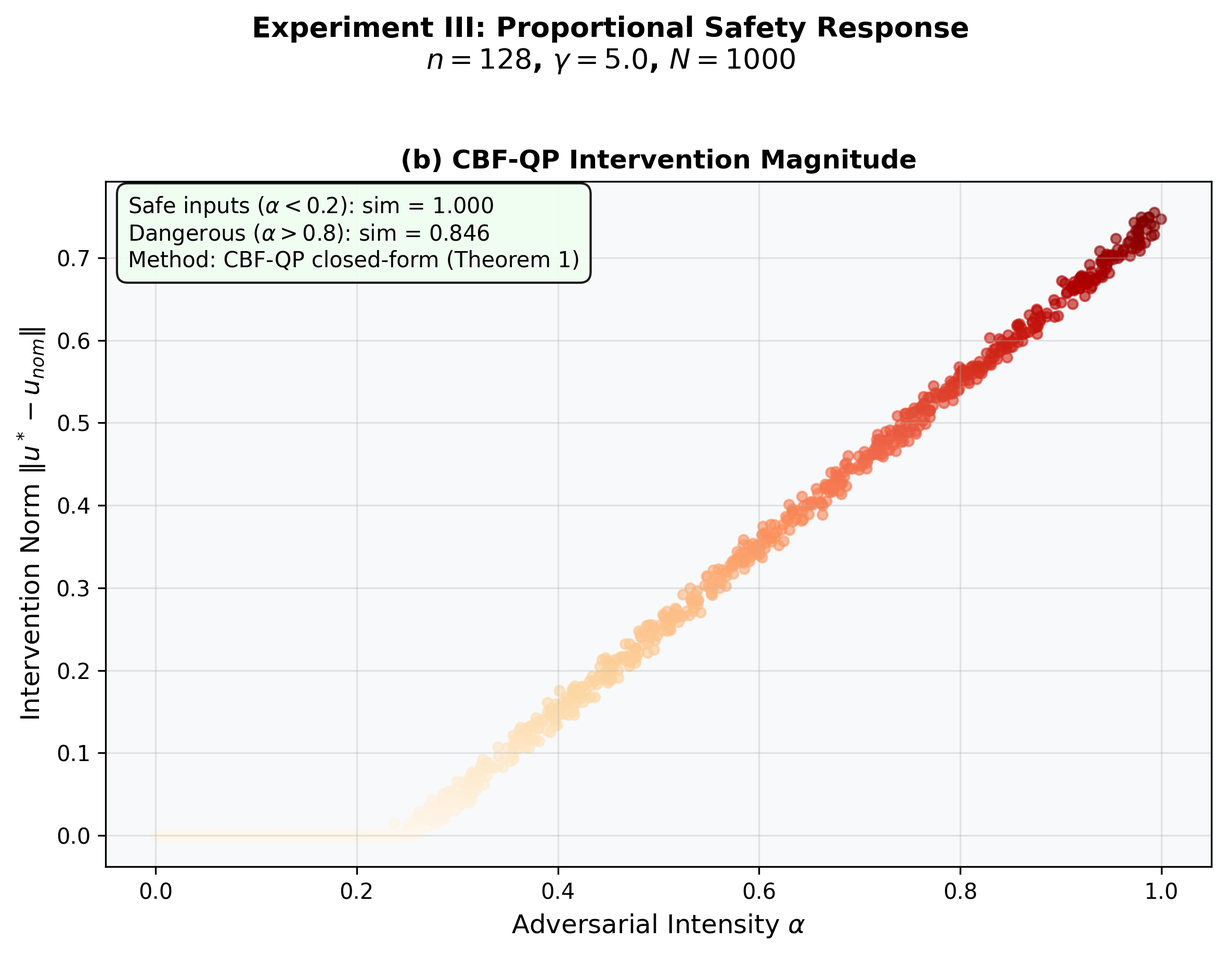
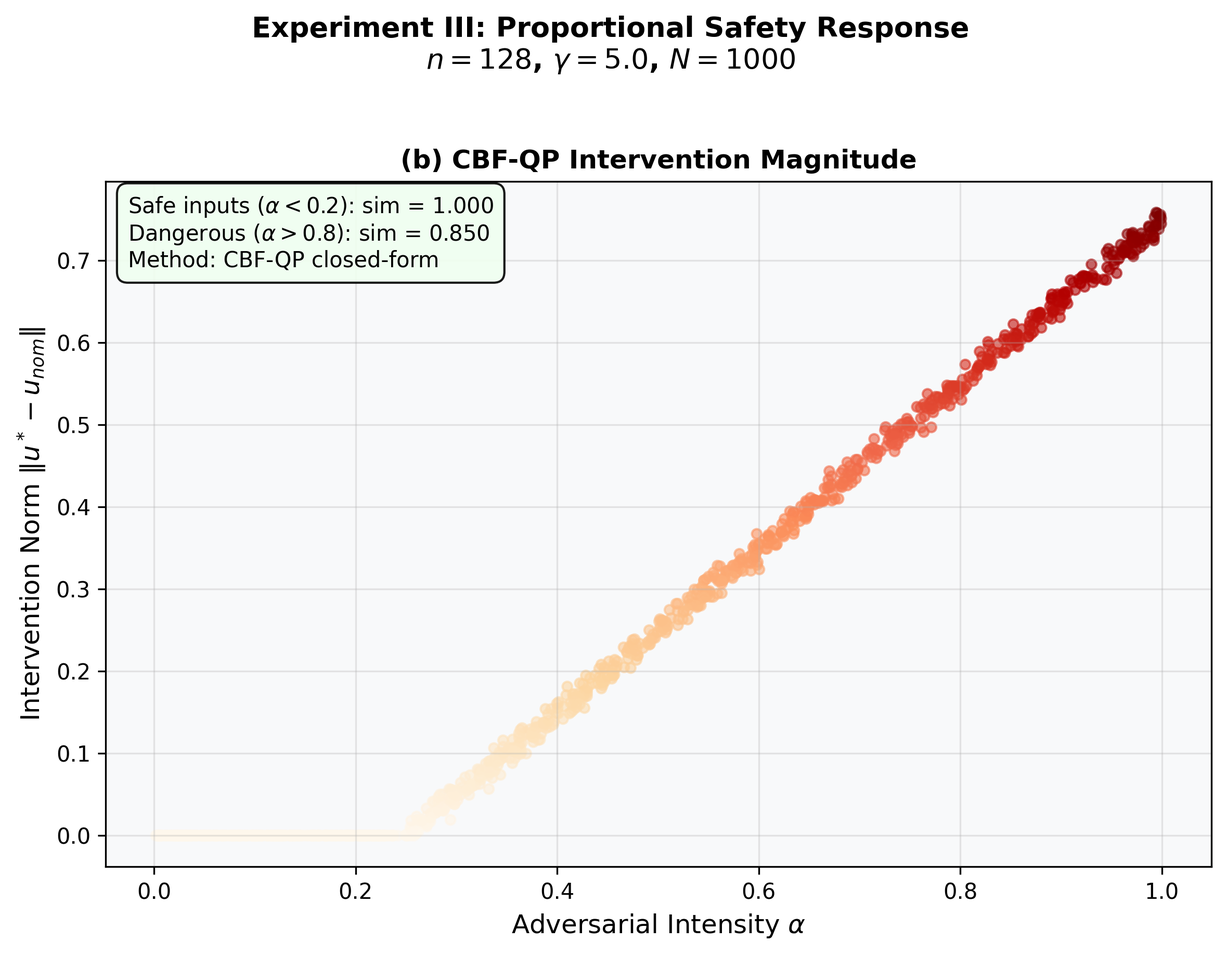
okay paper A DONE (almost)

diff --git a/core_safety/prove_utility_Figure_3.py b/core_safety/prove_utility_Figure_3.py
@@ -162,7 +162,7 @@ def _plot_b(ax):
     ax.set_facecolor(BG)
     textstr = (f'Safe inputs ($\\alpha < 0.2$): sim = {mean_sim_safe:.3f}\n'
                f'Dangerous ($\\alpha > 0.8$): sim = {mean_sim_danger:.3f}\n'
-               f'Method: CBF-QP closed-form (Eq. 3)')
+               f'Method: CBF-QP closed-form')
     ax.text(0.02, 0.98, textstr, transform=ax.transAxes, fontsize=10,
             verticalalignment='top',
             bbox=dict(boxstyle='round,pad=0.5', facecolor='honeydew', alpha=0.9))

diff --git a/core_safety/original_paper_A.md b/core_safety/original_paper_A.md
@@ -200,7 +200,7 @@ For clarity, we collect the assumptions underlying the CHDBO framework:
 We now present the Monte Carlo Barrier Certificate (MCBC), which replaces deterministic enumeration with probabilistic certification.
 
 \subsection{The Scaling Bottleneck}
-The computational cost of exact verification scales as $O((1/\eta)^n)$: a 3-link arm ($n{=}6$) requires $10^{12}$ evaluations; a semantic embedding space ($n \geq 128$) requires $10^{200}$. Two classical results motivate random sampling: the Concentration of Measure phenomenon \cite{vershynin2018} (barrier statistics from random boundary samples are representative of global behavior) and the Johnson-Lindenstrauss lemma \cite{johnson1984} (pairwise distances are preserved under random projections). Neither directly guarantees barrier-value preservation, but together they support---and our experiments validate---that sparse boundary sampling captures the essential safety geometry.
+The computational cost of exact verification scales as $O((1/\eta)^n)$: a 3-link arm ($n{=}6$) requires $10^{12}$ evaluations; a semantic embedding space ($n \geq 128$) requires $10^{200}$. Two classical results motivate random sampling: the Concentration of Measure phenomenon \cite{vershynin2018} (barrier statistics from random boundary samples are representative of global behavior) and the Johnson-Lindenstrauss lemma \cite{johnson1984, dasgupta2003} (pairwise distances are preserved under random projections). Neither directly guarantees barrier-value preservation, but together they support---and our experiments validate---that sparse boundary sampling captures the essential safety geometry.
 
 We shift from Worst-Case to PAC-Style Invariance \cite{valiant1984}: bounding the probability of encountering a failure state by $\epsilon$ via the Chernoff--Hoeffding bound \cite{hoeffding1963}, aligning with conformal prediction \cite{angelopoulos2021, lindemann2023} and randomized control frameworks \cite{tempo2012, calafiore2006}.
 
@@ -278,9 +278,9 @@ For $h(x) = \phi(\|x\|)$, we have $\nabla h(x) = \phi'(\|x\|) \cdot x/\|x\|$ for
 
 \begin{proposition}[Average-Case Trajectory Safety from Boundary Certification]
 \label{prop:trajectory_bridge}
-Let $h: \mathbb{R}^n \to \mathbb{R}$ be $L_h$-Lipschitz, and suppose the MCBC certificate guarantees $\hat{P}_{\emph{fail}} < \epsilon$ on $\partial\mathcal{S}$ under a uniform boundary measure $\mu$. Let $x(t)$ be a trajectory of the closed-loop system with CBF-QP control, evolving for $T$ discrete steps of size $\Delta t$.
+Let $h: \mathbb{R}^n \to \mathbb{R}$ be $L_h$-Lipschitz, and suppose the MCBC certificate guarantees $\hat{P}_{\text{fail}} < \epsilon$ on $\partial\mathcal{S}$ under a uniform boundary measure $\mu$. Let $x(t)$ be a trajectory of the closed-loop system with CBF-QP control, evolving for $T$ discrete steps of size $\Delta t$.
 
-\textbf{Distributional assumption.} Assume the initial condition $x(0)$ is drawn from a distribution $\mu_0$ such that, at each step where the trajectory reaches the boundary, the boundary projection $\emph{Proj}_{\partial\mathcal{S}}(x(t))$ is distributed according to $\mu$ (or absolutely continuous with respect to $\mu$). Under this assumption, the per-step probability of encountering an infeasible boundary point is at most $\epsilon$, and by a union bound:
+\textbf{Distributional assumption.} Assume the initial condition $x(0)$ is drawn from a distribution $\mu_0$ such that, at each step where the trajectory reaches the boundary, the boundary projection $\text{Proj}_{\partial\mathcal{S}}(x(t))$ is distributed according to $\mu$ (or absolutely continuous with respect to $\mu$). Under this assumption, the per-step probability of encountering an infeasible boundary point is at most $\epsilon$, and by a union bound:
 \begin{equation}
     P\!\left(\exists\, t \in \{1,\ldots,T\} : \text{CBF-QP infeasible at } x(t)\right) \leq T \cdot \epsilon
 \end{equation}
@@ -314,7 +314,7 @@ We resolve this conflict by employing a \textbf{Control Barrier Function-based Q
     \label{fig:projection}
 \end{figure}
 
-Because this formulation involves a single affine inequality constraint, the KKT conditions yield an explicit closed-form solution (a geometric projection onto a half-space). This circumvents the iterative complexity of general QP solvers ($O(n^3)$) \cite{boyd2004}, reducing the computational cost to $O(n)$ per time step (dominated strictly by vector dot products). Note that for systems with multiple simultaneous safety constraints, we assume they are aggregated into a single barrier function $h(x)$ (e.g., using a smooth LogSumExp or SoftMin approximation \cite{ames2019, glotfelter2017}) to preserve this linear scaling efficiency.
+As illustrated in Figure~\ref{fig:projection}, because this formulation involves a single affine inequality constraint, the KKT conditions yield an explicit closed-form solution (a geometric projection onto a half-space). This circumvents the iterative complexity of general QP solvers ($O(n^3)$) \cite{boyd2004}, reducing the computational cost to $O(n)$ per time step (dominated strictly by vector dot products). Note that for systems with multiple simultaneous safety constraints, we assume they are aggregated into a single barrier function $h(x)$ (e.g., using a smooth LogSumExp or SoftMin approximation \cite{ames2019, glotfelter2017}) to preserve this linear scaling efficiency.
 
 For systems with model uncertainty or discretization error, the barrier condition is tightened to the \textbf{robust barrier condition}:
 \begin{equation}
@@ -344,11 +344,9 @@ We establish each claim separately.
 
 We therefore use a \textbf{Barbalat-type argument} \cite{barbalat1959, khalil2002} instead of LaSalle's invariance principle \cite{lasalle1960}. Since $V$ is bounded below on compact $\mathcal{S}$ and the trajectory $x(t)$ remains in $\mathcal{S}$ by forward invariance, $V(x(t))$ is a bounded function of time. We now establish that $\int_0^T \|\nabla U(x(t))\|^2\, dt$ is bounded for all $T$. Decompose the time axis into \textit{interior phases} (where $h(x(t)) > 0$ and the CBF constraint is inactive) and \textit{boundary phases} (where the constraint is active). During interior phases, $\dot{V} = -\|\nabla U\|^2 \leq 0$, so $V$ is non-increasing and $\int \|\nabla U\|^2\, dt \leq V(x(0)) - \inf_\mathcal{S} V < \infty$. During boundary phases, the trajectory evolves on the codimension-1 manifold $\partial\mathcal{S}$. The projected dynamics on $\partial\mathcal{S}$ satisfy $\dot{x} = u^* = \nabla U + \lambda^* \nabla h$, where $\lambda^*$ is determined by $\dot{h} = -\gamma h = 0$. We define the \textit{projected Lyapunov function} $W(x) = V(x)|_{\partial\mathcal{S}}$, whose time derivative along the boundary is $\dot{W} = -\|\nabla U\|^2 - \lambda^* \nabla U \cdot \nabla h = -\|\text{Proj}_{\text{Null}(\nabla h)} \nabla U\|^2 \leq 0$, where the last equality uses the geometric decomposition of the projected gradient (Section~4.2). Thus $V$ is non-increasing during boundary phases as well, provided we project onto the tangent space. The total integral $\int_0^\infty \|\text{Proj}_{\text{Null}(\nabla h)} \nabla U\|^2\, dt$ is bounded by $V(x(0)) - \inf_\mathcal{S} V$.
 
-We note that $V$ may transiently increase during boundary phases when the drift-compensation term dominates, but $V$ remains bounded on the compact forward-invariant set $\mathcal{S}$, so the total positive excursion is finite.
-
 To apply Barbalat's Lemma, we verify that $\ddot{V}$ is bounded: since $\dot{V} = -\nabla U^T (f + gu^*)$ and both $U$, $h$ are $C^1$ (Assumptions A2, A6), and $u^*$ is continuous in $x$ (as the KKT solution of the convex QP), $\dot{V}$ is Lipschitz on compact $\mathcal{S}$, implying $|\ddot{V}| \leq L_{\dot{V}} \cdot M$ where $M = \sup_{x \in \mathcal{S}, u \in \mathcal{U}} \|f(x) + g(x)u\|$ is finite by compactness. Barbalat's Lemma yields $\|\text{Proj}_{\text{Null}(\nabla h)} \nabla U(x(t))\|^2 \to 0$. Since $\mathcal{S}$ is compact and forward-invariant, the $\omega$-limit set $\Omega \subset \mathcal{S}$ is non-empty, compact, and connected \cite{khalil2002}, and every point of $\Omega$ satisfies the KKT conditions---the first-order optimality conditions of $\max_\mathcal{S} U$.
 
-\textbf{Singleton Convergence} follows under real-analyticity of $U$ via the {\L}ojasiewicz gradient inequality \cite{lojasiewicz1963}, yielding finite arc-length $\int_0^\infty \|\dot{x}\|\, dt < \infty$ \cite{absil2005} and hence convergence to a single KKT point. The proof extends to general control-affine dynamics $\dot{x} = f(x) + g(x)u$ under sufficient control authority; detailed remarks on regularity conditions, convergence rates, and the general dynamics extension are provided in Appendix~\ref{app:qualifications}.
+\textbf{Singleton Convergence} follows under real-analyticity of $U$ via the {\L}ojasiewicz gradient inequality \cite{lojasiewicz1963}, yielding finite arc-length $\int_0^\infty \|\dot{x}\|\, dt < \infty$ \cite{absil2005} and hence convergence to a single KKT point. The proof extends to general control-affine dynamics $\dot{x} = f(x) + g(x)u$ under sufficient control authority; in the general case, $V$ may transiently increase during boundary phases when the drift-compensation term $L_f V$ dominates, but $V$ remains bounded on the compact forward-invariant set $\mathcal{S}$, so the total positive excursion is finite and the Barbalat argument still applies. Detailed remarks on regularity conditions, convergence rates, and the general dynamics extension are provided in Appendix~\ref{app:qualifications}.
 \end{proof}
 
 \subsection{Avoiding Local Minima (The ``Deadlock'' Problem)}
@@ -356,7 +354,7 @@ A common failure mode in potential field methods is ``local minima deadlock,'' w
 
 To mitigate this, we inject a Rotational Circulation term. When the angle between $\nabla U$ and $\nabla h$ approaches $180^\circ$ (indicating a deadlock), we project a random perturbation vector (or strictly orthogonal noise) $\xi$ onto the tangent plane of the obstacle, utilizing a stochastic escape heuristic similar to Simulated Annealing \cite{kirkpatrick1983} or Randomized Potential Fields \cite{barraquand1991}:
 \begin{equation}
-    u_{perturb} = \nabla U(x) + \beta \left( \text{Proj}_{\text{Null}(\nabla h)} \xi \right)
+    u_{\text{perturb}} = \nabla U(x) + \beta \left( \text{Proj}_{\text{Null}(\nabla h)} \xi \right)
 \end{equation}
 Here, $\xi \in \mathbb{R}^n$ is a noise vector. High dimensionality \textit{aids} escape: saddle points dominate high-dimensional landscapes \cite{dauphin2014, choromanska2015}, and a random perturbation almost surely has a nonzero descent component, with failure probability vanishing exponentially in $n$ \cite{vershynin2018}.
 
@@ -418,7 +416,7 @@ Experiments I--III employ single-integrator dynamics ($f(x) = 0$), which elimina
 \begin{figure}[htbp]
     \centering
     \includegraphics[width=\linewidth]{figure_9c.png}
-    \caption{\textbf{Experiment IV: Drift Lie Derivative Distribution.} $L_f h(x)$ under linear drift; mean $= -0.462$ (adverse). The entirely negative distribution confirms that drift actively pushes the system toward $\partial\mathcal{S}$, exercising the full CBF condition $L_f h + L_g h \cdot u \geq -\gamma h$. The bimodal shape arises because $L_f h = -0.6\|x\|^2$ (since $x^T S x = 0$ for skew-symmetric $S$), so the two peaks correspond to the starting norm ($\|x\| \approx 0.7$) and the near-boundary dwell norm ($\|x\| \approx 0.98$).}
+    \caption{\textbf{Experiment IV: Drift Lie Derivative Distribution.} $L_f h(x)$ under linear drift; mean $= -0.462$ (adverse). The entirely negative distribution confirms that drift actively pushes the system toward $\partial\mathcal{S}$, exercising the full CBF condition $L_f h + L_g h \cdot u \geq -\gamma h$. The bimodal shape arises because $L_f h = -0.6\|x\|^2$ (since $x^T A_{\text{skew}}\, x = 0$ for the skew-symmetric part of $A$), so the two peaks correspond to the starting norm ($\|x\| \approx 0.7$) and the near-boundary dwell norm ($\|x\| \approx 0.98$).}
     \label{fig:drift_lfh}
 \end{figure}
 
@@ -612,8 +610,6 @@ To characterize the practical limits of CHDBO, we systematically probe CBF-QP fe
 
 \textbf{Significance.} Three practical lessons emerge from Experiment~X. First, CBF-QP fails when $u_{\max} < \|f(x)\|$ on $\partial\mathcal{S}$---practitioners must budget control authority to exceed expected drift. Second, the drift-to-budget transition follows a steep S-curve: safety drops from 100\% through 76\% and 30\% to 0\% over the ratio range $\sim$0.73--0.88, below the theoretical limit of unity because noise accumulates over discrete time steps. Third, MCBC does not guarantee safety---it \emph{measures} it; when dynamics are hostile, MCBC correctly reports low $P_{\text{safe}}$, preventing false confidence. These limitations are intrinsic to CBF methods, not artifacts of the hypervector representation.
 
-\subsection{Summary of Results}
-
 \begin{table*}[htbp]
 \centering
 \caption{Empirical Performance Summary: CHDBO Framework}
@@ -624,7 +620,7 @@ To characterize the practical limits of CHDBO, we systematically probe CBF-QP fe
 I (Reachability, $n{=}2$) & Safety Rate & 100\% (50 trials) & $\dot{x}=u$ & CBF-QP projection \\
 II (High-dim, $n{=}128$) & Safety Rate & 100\% (100 steps) & $\dot{x}=u$ & CBF-QP on $S^{127}$ \\
 III (Proportional, $n{=}128$) & Utility Preservation & $\geq\sqrt{1-\alpha^2}$ bound & $\dot{x}=u$ & App.~\ref{app:exp_proportional} \\
-IV (Drift, $n{=}128$) & Safety Rate (linear) & 0/50 violations & $\dot{x}=Ax+Bu$ & CBF-QP + $L_fh$ \\
+IV (Drift, $n{=}128$) & Safety Rate (linear) & 0/50 violations & $\dot{x}=Ax+u$ & CBF-QP + $L_fh$ \\
  & Safety Rate (dbl-int) & 0/50 violations & $\ddot{q}=u$ & ECBF \\
 V (Lorenz, $n{=}128$) & Safety Rate & 0/50 violations & Lorenz $f(x)$ & CBF-QP, nonlinear \\
 VI (Scale, $n{\leq}1024$) & Safety Rate & 0/60 violations & $\dot{x}=Ax+u$ & $n{=}128,512,1024$ \\
@@ -632,13 +628,13 @@ VII (QP Benchmark) & Speedup vs.\ OSQP & 61--351$\times$ & $\dot{x}=u$ & Single 
 VIII (Thm.~\ref{thm:safe_convergence} Valid.) & Safety Rate & 0/24{,}000 evals & $\dot{x}=Ax+u$ & App.~\ref{app:exp_convergence} \\
 IX (Scenario Comp.) & MCBC Samples & 72{,}544 ($\forall n$) & --- & Hoeffding bound \\
  & Scenario Samples & 208{,}000 ($n{=}1024$) & --- & Campi--Garatti \\
-X (Bounded Act.\ + Failures) & Safety vs.\ $u_{\max}$ & 90\%--100\% & Lorenz $f(x)$ & Linear barrier \\
+X (Bounded Act.\ + Failures) & Safety vs.\ $u_{\max}$ & 92\%--100\% & Lorenz $f(x)$ & Linear barrier \\
  & Phase transition & $u_{\max} \approx 0.15$ & Lorenz $f(x)$ & Starvation \\
  & MCBC calibration & Within 95\% CI & & Clopper--Pearson \\
 \bottomrule
 \end{tabular}
 \begin{flushleft}
-\small \textit{Notes:} Experiments I--III use single-integrator dynamics ($f(x)=0$); IV introduces linear/bilinear drift; V uses nonlinear chaotic drift (coupled Lorenz-type); VI tests scalability to $n=1024$; VII benchmarks closed-form QP vs.\ OSQP; VIII validates Theorem~\ref{thm:safe_convergence}; IX compares MCBC against the scenario approach; X quantifies bounded-actuation feasibility and failure modes. Full details for Experiments III and VIII in Appendix. ``ECBF'' = Exponential CBF for relative degree 2.
+\small \textit{Notes:} Experiments I--III use single-integrator dynamics ($f(x)=0$); IV introduces linear and second-order drift; V uses nonlinear chaotic drift (coupled Lorenz-type); VI tests scalability to $n=1024$; VII benchmarks closed-form QP vs.\ OSQP; VIII validates Theorem~\ref{thm:safe_convergence}; IX compares MCBC against the scenario approach; X quantifies bounded-actuation feasibility and failure modes. Full details for Experiments III and VIII in Appendix. ``ECBF'' = Exponential CBF for relative degree 2.
 \end{flushleft}
 \label{tab:results}
 \end{table*}
@@ -697,11 +693,11 @@ This paper introduced Constrained High-Dimensional Barrier Optimization (CHDBO),
 \begin{enumerate}
     \item \textbf{Probabilistically Scalable Safety:} Monte Carlo barrier certificates verify $\mathbb{R}^{128}$ manifolds with confidence $1{-}\delta$; Proposition~\ref{prop:trajectory_bridge} bridges boundary-level to trajectory-level safety.
     \item \textbf{Asymptotic Utility:} Projected-gradient steering converges to constrained optima (Theorem~\ref{thm:safe_convergence}), validated empirically under linear drift (0/24{,}000 violations, Experiment~VIII).
-    \item \textbf{Scalability and Efficiency:} The framework handles linear, bilinear, and nonlinear dynamics (Experiments IV--V), scales to $n = 1024$ (Experiment~VI), and achieves 61--351$\times$ speedup over OSQP (Experiment~VII).
+    \item \textbf{Scalability and Efficiency:} The framework handles linear, second-order, and nonlinear dynamics (Experiments IV--V), scales to $n = 1024$ (Experiment~VI), and achieves 61--351$\times$ speedup over OSQP (Experiment~VII).
     \item \textbf{Honest Failure Characterization:} Experiment~X identifies phase transitions at $\|f\|/u_{\max} \approx 1.0$ and confirms MCBC calibration within 95\% CI.
 \end{enumerate}
 
-A companion paper extends this framework with Active Adversarial Safety Verification (AASV), bridging the gap between statistical certification and adversarial robustness.
+Tables~\ref{tab:results} and~\ref{tab:comparison} summarize empirical performance and position CHDBO within the broader landscape. Practical deployment guidelines (parameter selection for kinematic and semantic systems) are provided in Appendix~\ref{app:deployment}. A companion paper extends this framework with Active Adversarial Safety Verification (AASV), bridging the gap between statistical certification and adversarial robustness.
 
 \begin{thebibliography}{99}
 
@@ -759,11 +755,6 @@ Wei, A., Haghtalab, N., \& Steinhardt, J. (2023).
 Angelopoulos, A. N., \& Bates, S. (2021).
 ``A Gentle Introduction to Conformal Prediction and Distribution-Free Uncertainty Quantification.''
 \textit{arXiv preprint arXiv:2107.07511}.
-
-\bibitem{vapnik1998}
-Vapnik, V. N. (1998).
-\textit{Statistical Learning Theory}.
-Wiley-Interscience.
 
 \bibitem{alshiekh2018}
 Alshiekh, M., Bloem, R., Ehlers, R., Könighofer, B., Niekum, S., \& Topcu, U. (2018).
@@ -884,11 +875,6 @@ Prajna, S., \& Jadbabaie, A. (2004).
 Fazlyab, M., Robey, A., Hassani, H., Morari, M., \& Pappas, G. J. (2019).
 ``Efficient and accurate estimation of Lipschitz constants for deep neural networks.''
 \textit{Advances in Neural Information Processing Systems}, 32.
-
-\bibitem{schulman2017}
-Schulman, J., et al. (2017).
-``Proximal Policy Optimization Algorithms.''
-\textit{arXiv preprint arXiv:1707.06347}.
 
 \bibitem{madry2018}
 Madry, A., Makelov, A., Schmidt, L., Tsipras, D., \& Vladu, A. (2018).
@@ -1030,11 +1016,6 @@ Geshkovski, B., Letrouit, C., Polyanskiy, Y., \& Rigollet, P. (2024).
 ``A Mathematical Perspective on Transformers.''
 \textit{Bulletin of the American Mathematical Society}, 61(4), 515--580. (Also \textit{arXiv preprint arXiv:2312.10794}.)
 
-\bibitem{lu2020}
-Lu, Y., Ma, C., Lu, Y., Lu, J., \& Ying, L. (2020).
-``A Mean Field Analysis of Deep ResNet and Beyond: Towards Provably Optimization via Overparameterization.''
-\textit{International Conference on Machine Learning (ICML)}, 6301--6311.
-
 \bibitem{sander2022}
 Sander, M. E., Ablin, P., Blondel, M., \& Peyr{\'e}, G. (2022).
 ``Sinkformers: Transformers with Doubly Stochastic Attention.''
@@ -1100,11 +1081,6 @@ Absil, P.-A., Mahony, R., \& Andrews, B. (2005).
 ``Convergence of the Iterates of Descent Methods for Analytic Cost Functions.''
 \textit{SIAM Journal on Optimization}, 16(2), 531--547.
 
-\bibitem{bai2019}
-Bai, S., Kolter, J. Z., \& Koltun, V. (2019).
-``Deep Equilibrium Models.''
-\textit{Advances in Neural Information Processing Systems}, 32, 690--701.
-
 \bibitem{dawson2022}
 Dawson, C., Lowenkamp, B., Goff, D., \& Fan, C. (2022).
 ``Learning Safe, Generalizable Perception-Based Hybrid Control With Certificates.''
@@ -1145,7 +1121,7 @@ The scenario approach of Campi \& Garatti \cite{campi2008} and Calafiore \& Camp
 Lindemann et al.\ \cite{lindemann2023} apply conformal prediction to safe planning, providing distribution-free uncertainty quantification for learned dynamics models. Angelopoulos \& Bates \cite{angelopoulos2021} provide a general introduction to conformal prediction methods. These approaches offer finite-sample validity guarantees without distributional assumptions---a property complementary to our Hoeffding-based MCBC, which assumes i.i.d.\ sampling but provides tighter bounds for fixed-distribution verification. Combining conformal prediction intervals with surrogate error bounds in future active adversarial verification methods is a promising direction.
 
 \textbf{Adversarial Robustness and Safety.}
-Madry et al.\ \cite{madry2018} introduced PGD-based adversarial training for neural networks, establishing the paradigm of iterative worst-case search that could be adapted for barrier verification. Goodfellow et al.\ \cite{goodfellow2014} demonstrated that small input perturbations can cause catastrophic misclassification---a phenomenon analogous to ``Black Swan'' spikes in barrier landscapes. Virmaux \& Scaman \cite{virmaux2018} established tight Lipschitz bounds for deep neural networks, directly relevant to estimating $L_f$ for neural dynamics. Extending adversarial search from the classification setting to continuous-state safety verification---incorporating momentum PGD, spectral margin estimation, and systematic coverage mechanisms---is a promising direction for future work.
+Madry et al.\ \cite{madry2018} introduced PGD-based adversarial training for neural networks, establishing the paradigm of iterative worst-case search that could be adapted for barrier verification. Goodfellow et al.\ \cite{goodfellow2014} demonstrated that small input perturbations can cause catastrophic misclassification---a phenomenon analogous to ``Black Swan'' spikes in barrier landscapes. Virmaux \& Scaman \cite{virmaux2018} established tight Lipschitz bounds for deep neural networks, and Kim et al.\ \cite{kim2021} extended Lipschitz analysis to self-attention layers, both directly relevant to estimating $L_f$ for neural dynamics. Extending adversarial search from the classification setting to continuous-state safety verification---incorporating momentum PGD, spectral margin estimation, and systematic coverage mechanisms---is a promising direction for future work.
 
 \textbf{Safe Reinforcement Learning.}
 Safe RL approaches broadly fall into constrained optimization \cite{garcia2015}, shielding \cite{alshiekh2018}, and Lagrangian methods \cite{choi2020}. Berkenkamp et al.\ \cite{berkenkamp2017} combine Lyapunov stability with Gaussian processes for safe exploration, providing formal guarantees within high-confidence regions but requiring kernel assumptions and scaling cubically in the number of data points. Predictive safety filters \cite{wabersich2021} and reachability-based shielding \cite{fisac2019} provide formal guarantees but typically require accurate forward models and scale as $O(n^3)$ or worse per step due to trajectory optimization. Model Predictive Control with safety constraints \cite{camacho2013, mayne2005} offers robust guarantees for linear systems but faces similar scalability limitations for $n > 50$. CHDBO occupies a distinct niche: it provides probabilistic (not deterministic) safety at $O(n)$ cost, trading guarantee strength for dimensional scalability.
@@ -1174,7 +1150,7 @@ While the \textit{sample count} $N$ required by the Hoeffding bound is independe
 \subsection{Concentration of Measure and Black Swan Spikes}
 It is important to address the theoretical concern of Concentration of Measure in high-dimensional spaces ($n=128$), where safety violations could theoretically exist as ``spiky'' manifolds with large diameters but negligible volume (``Black Swan'' singularities) \cite{vershynin2018}. The Concentration of Measure phenomenon plays a dual role: on one hand, it \textit{aids} passive verification by concentrating probability mass near the boundary (the ``Hollow Ball'' effect of Figure~\ref{fig:concentration}), ensuring that boundary sampling captures the operationally relevant region; on the other hand, it \textit{hinders} passive verification by ensuring that narrow failure spikes occupy negligible volume, making them invisible to any feasible uniform sampling regime. MCBC exploits boundary concentration to certify that the \textit{volume fraction} of failures is small; active adversarial search methods that compensate for the volumetric invisibility of narrow spikes via gradient-based search offer a promising complement and are explored in a companion paper. We additionally leverage the Lipschitz continuity of the system dynamics $f(x)$---estimated via spectral norm techniques for deep networks \cite{fazlyab2019}---which places a lower bound on the ``width'' of any failure region, ensuring no violation is mathematically invisible to nearby samples \cite{campi2008, vershynin2018}.
 
-It may be argued that in high-dimensional spaces ($n=128$), even Lipschitz-continuous failure regions could remain statistically undetectable due to the vastness of the sampling volume. However, this assumes that the safety hazard is uniformly distributed across all dimensions. In practical control systems, safety violations (e.g., collisions) are typically low-rank phenomena, depending on a small subset of state variables (effective dimensionality $d_{eff} \ll n$) while remaining invariant to the others \cite{bengio2013}. Our projection mechanism leverages this structure, ensuring that sampling efficiency scales with the complexity of the \textit{hazard}, not the complexity of the \textit{agent}.
+It may be argued that in high-dimensional spaces ($n=128$), even Lipschitz-continuous failure regions could remain statistically undetectable due to the vastness of the sampling volume. However, this assumes that the safety hazard is uniformly distributed across all dimensions. In practical control systems, safety violations (e.g., collisions) are typically low-rank phenomena, depending on a small subset of state variables (effective dimensionality $d_{\text{eff}} \ll n$) while remaining invariant to the others \cite{bengio2013}. Our projection mechanism leverages this structure, ensuring that sampling efficiency scales with the complexity of the \textit{hazard}, not the complexity of the \textit{agent}.
 
 Furthermore, we leverage the Lipschitz property of the barrier function $h(x)$. Given the Lipschitz constant $L_h$ of $h$---estimated via conservative local sampling or spectral norm bounds \cite{fazlyab2019}---any verified point $x_i$ with $h(x_i) > 0$ guarantees that all points within the hyper-ball $B(x_i, h(x_i)/L_h)$ also satisfy $h(x) > 0$. This provides a local deterministic guarantee: each verified sample ``covers'' a neighborhood of radius $r = h(x_i)/L_h$, amplifying the probabilistic certification with geometric coverage. We note, however, that the volume of each such ball scales as $r^n$, and near the boundary where $h(x_i) \to 0$, the coverage radius shrinks correspondingly. In very high dimensions ($n = 128$), this means the Lipschitz coverage amplification provides diminishing practical benefit for near-boundary points---motivating future work on active adversarial search methods that do not rely on volumetric coverage arguments.
 
@@ -1206,7 +1182,7 @@ The Hoeffding bound assumes that the indicator random variables $\mathbb{I}(\Del
 
 Two additional experiments provide further characterization of the CHDBO framework. These experiments are moved here to reduce the main body length; they remain important for completeness.
 
-\subsection{Experiment A: Proportional Safety Response}
+\subsection{Experiment III: Proportional Safety Response}
 \label{app:exp_proportional}
 
 A critical requirement for autonomous agents is that safety measures should not destroy utility unless absolutely necessary. We stress-tested the system by varying the ``Adversarial Intensity'' ($\alpha$) of the agent's intent from 0.0 (Pure Safe) to 1.0 (Pure Malicious). Specifically, $\alpha$ parameterizes the \textit{angular deviation} from the tangent plane: the intent velocity is constructed as
@@ -1225,11 +1201,11 @@ where $\hat{t}$ is the unit tangent direction and $\hat{r}$ is the outward radia
 \textbf{Observation:} As illustrated in Figure~\ref{fig:proportional_response}, the system's response is nonlinear and proportional:
 \begin{itemize}
     \item \textbf{Low Threat ($\alpha < 0.4$):} Similarity remains near 1.0. The verifier allows the agent to act freely when the intent aligns with safety.
-    \item \textbf{High Threat ($\alpha > 0.8$):} Similarity decreases to approximately 0.84 as the CBF intervenes more strongly, yet remains well above the boundary limit ($\sqrt{1-0.8^2} = 0.6$). Notably, similarity \emph{recovers} near $\alpha = 1$ because a purely radial intent is corrected by magnitude scaling alone, preserving direction and therefore cosine similarity.
+    \item \textbf{High Threat ($\alpha > 0.8$):} Similarity decreases to approximately 0.85 as the CBF intervenes more strongly, yet remains well above the boundary limit ($\sqrt{1-0.8^2} = 0.6$). Notably, similarity \emph{recovers} near $\alpha = 1$ because a purely radial intent is corrected by magnitude scaling alone, preserving direction and therefore cosine similarity.
     \item \textbf{Curve:} The dashed line $\sqrt{1-\alpha^2}$ is the boundary-case limit---the similarity that would obtain if the state sat exactly on $\partial\mathcal{S}$ ($h=0$), where the CBF constraint is maximally tight \cite{vershynin2018, blum2020}. Empirical data lies systematically \emph{above} this curve because states at $0.95R$ retain margin $h=0.05$, yielding CBF slack $\gamma h = 0.25$ and therefore less aggressive correction. This gap is a positive property: the filter intervenes only as much as the margin demands.
 \end{itemize}
 
-\subsection{Experiment B: Empirical Validation of Theorem~\ref{thm:safe_convergence}}
+\subsection{Experiment VIII: Empirical Validation of Theorem~\ref{thm:safe_convergence}}
 \label{app:exp_convergence}
 
 To validate the convergence claim of Theorem~\ref{thm:safe_convergence} directly, we run the complete CHDBO pipeline in $\mathbb{R}^{128}$ under linear drift and measure both safety and utility convergence over extended horizons.

diff --git a/core_memory/HIS_paper_FINAL_DO_NOT_EDIT.md b/core_memory/HIS_paper_FINAL_DO_NOT_EDIT.md
@@ -1,0 +1,183 @@
+\documentclass[a4paper,11pt]{article}
+
+% Packages for formatting and functionality
+\usepackage[utf8]{inputenc}
+\usepackage{geometry}
+\usepackage{amsmath, amssymb, amsfonts}
+\usepackage{graphicx}
+\usepackage{hyperref}
+\usepackage{authblk}
+\usepackage{booktabs}
+\usepackage{titlesec}
+\usepackage{caption}
+\usepackage{subcaption} 
+\usepackage{float}
+\usepackage{xcolor}
+
+% Margin settings
+\geometry{
+    top=1in,
+    bottom=1in,
+    left=1in,
+    right=1in
+}
+
+% Title and Author Info
+\title{\textbf{Mitigating Large Language Model Context Drift via Holographic Invariant Storage}}
+\author{\textbf{Arsenios Scrivens}}
+\date{February 5, 2026}
+
+\begin{document}
+
+\maketitle
+
+\begin{abstract}
+
+As Large Language Models (LLMs) scale toward autonomous deployment, they face a critical reliability failure often termed ``Agent Drift.'' Over extended interaction sequences, the accumulation of context noise statistically dilutes the model's adherence to initial safety constraints and objective functions. This report introduces Holographic Invariant Storage (HIS), a neuro-symbolic memory mechanism based on Vector Symbolic Architectures (VSA). Unlike probabilistic attention mechanisms, HIS encodes safety constraints as high-dimensional hypervectors ($D=10,000$) that remain mathematically orthogonal to accumulated context noise. We demonstrate through Monte Carlo simulation ($n=1,000$) that this mechanism recovers original safety objectives with a mean fidelity of $0.7074$ ($\sigma=0.0039$) even under direct adversarial attack. This result aligns with the theoretical geometric bound of $1/\sqrt{2}$, proving that safety can be enforced as a deterministic structural constant.
+
+\end{abstract}
+
+\vspace{1em}
+\hrule
+\vspace{1em}
+
+\section{Introduction}
+
+The current paradigm of Generative AI faces a structural bottleneck in long-horizon tasks: the inability to maintain goal coherence over time. While Transformers excel at in-context learning, they suffer from degradation in long contexts—often referred to as ``structural entropy'' or drift—where the probability of adhering to the original system prompt degrades as the context window fills with interaction history \cite{lecun2022}.
+
+This vulnerability is particularly acute in autonomous agents, where behavioral drift can lead to logic regression and susceptibility to ``jailbreak'' attacks. The fundamental limitation lies in the attention mechanism itself, which treats safety constraints as just another token sequence to be weighted probabilistically against the immediate context, a phenomenon exacerbated by the ``Lost in the Middle'' effect \cite{liu2023}.
+
+To address this, we propose decoupling the agent's core identity from its active context window using \textbf{Holographic Invariant Storage (HIS)}. Drawing on properties of Hyperdimensional Computing (HDC), HIS utilizes distributed representations to create immutable memory substrates that are resilient to noise and corruption \cite{kanerva2009}.
+
+\section{Methodology}
+
+\subsection{Vector Symbolic Architecture (VSA)}
+Our approach utilizes 10,000-dimensional bipolar hypervectors ($v \in \{-1,1\}^{10,000}$) to represent semantic concepts. We rely on the algebraic properties of VSA to manipulate these concepts \cite{kanerva2009, gayler2003}:
+
+\begin{itemize}
+    \item \textbf{Binding ($\otimes$):} An operation that combines two vectors (e.g., a ``Key'' and a ``Value'') into a single composite vector. This creates a representation that is dissimilar to both inputs but preserves their information.
+    \item \textbf{Bundling/Superposition ($+$):} A summation operation that creates a set of vectors. This allows the system to store multiple noisy context states while retaining the underlying signal.
+    \item \textbf{Unbinding ($\otimes^{-1}$):} The inverse of binding, used to mathematically extract the original value from a corrupted or bundled state.
+\end{itemize}
+
+\subsection{The Restoration Protocol}
+We define the agent's safety constraint as a ``System Invariant'' ($H_{inv}$), created by binding a specific Goal Key ($K_{goal}$) to its Safe Value ($V_{safe}$):
+
+\begin{equation}
+    H_{inv} = K_{goal} \otimes V_{safe}
+\end{equation}
+
+During operation, this invariant is subjected to additive noise from the user interaction ($N_{context}$), resulting in a drift state. To mitigate this, we employ a restoration protocol that unbinds the drifted state using the original key. 
+
+To ensure the geometric bound holds, it is a \textbf{critical prerequisite} that the system normalizes the context noise such that $\|N_{context}\| \approx \|H_{inv}\|$ prior to superposition. Without this active normalization, fidelity would degrade as context noise accumulates.
+
+\begin{equation}
+    V_{recovered} \approx \text{sign}(H_{inv} + N_{context}) \otimes K_{goal}
+\end{equation}
+
+Because the high-dimensional noise vector is statistically orthogonal to the key, the unbinding operation does not subtract the interference, but rather \textbf{distributes it across the hyperspace}. This orthogonalization allows the original safety vector to be retrieved via similarity search, effectively filtering out the noise which now has a near-zero dot product with the signal.
+
+\section{Empirical Results}
+
+\subsection{Monte Carlo Simulation}
+To validate the robustness of this protocol, we conducted a Monte Carlo simulation ($n=1,000$) using a semantic encoder. In each trial, the invariant anchor was corrupted by unique adversarial noise strings (e.g., prompt injection attacks, random data flooding, and neutral text).
+
+\textbf{Statistical Results:}
+\begin{itemize}
+    \item Mean Recovery Fidelity: $0.7074$
+    \item Standard Deviation ($\sigma$): $0.0039$
+\end{itemize}
+
+\begin{figure}[H]
+    \centering
+    % Placeholder for the histogram figure
+    \includegraphics[width=0.8\linewidth]{figure1.png} 
+    \caption{\textbf{Distribution of Holographic Recovery Fidelity ($n=1,000$).} The black curve represents the normal fit ($\mu=0.7074$), while the red dashed line marks the theoretical geometric bound ($1/\sqrt{2} \approx 0.7071$). The alignment confirms the mechanism functions as a deterministic geometric filter.}
+    \label{fig:fidelity}
+\end{figure}
+
+The low standard deviation indicates that the mechanism's performance is stable and independent of the specific semantic content of the attack.
+
+\subsection{The Geometric Bound}
+Our empirical mean of $0.7074$ aligns closely with the theoretical expectation for recovering a signal from a superposition of two orthogonal vectors (Signal + Noise) of equal magnitude. The expected cosine similarity is defined as $1/\sqrt{N}$ where $N=2$:
+
+\begin{equation}
+    \text{Similarity} \approx \frac{1}{\sqrt{2}} \approx 0.7071
+\end{equation}
+
+This confirms that the HIS mechanism functions as a geometric filter, isolating the safety signal from the noise floor with predictable precision.
+
+\subsection{Adversarial Resistance}
+We tested the system against three distinct attack vectors:
+\begin{enumerate}
+    \item \textbf{Information Flooding:} Injection of irrelevant URLs and citations.
+    \item \textbf{Direct Jailbreak:} Direct prompts to bypass safety rules.
+    \item \textbf{Neutral Noise:} Literary excerpts to provide semantic distraction.
+\end{enumerate}
+
+\begin{figure}[H]
+    \centering
+    % Subfigure A
+    \begin{subfigure}[b]{0.32\textwidth}
+        \centering
+        \includegraphics[width=\textwidth]{figure2a.png}
+        \caption{Information Flooding}
+        \label{fig:flooding}
+    \end{subfigure}
+    \hfill
+    % Subfigure B
+    \begin{subfigure}[b]{0.32\textwidth}
+        \centering
+        \includegraphics[width=\textwidth]{figure2b.png}
+        \caption{Direct Jailbreak}
+        \label{fig:jailbreak}
+    \end{subfigure}
+    \hfill
+    % Subfigure C
+    \begin{subfigure}[b]{0.32\textwidth}
+        \centering
+        \includegraphics[width=\textwidth]{figure2c.png}
+        \caption{Neutral Noise}
+        \label{fig:neutral}
+    \end{subfigure}
+    
+    \caption{\textbf{Aetheris // Anti-Drift Kernel Interface.} Comparative analysis of Drifted States (Red) vs. Restored States (Green) under varying attack vectors. Despite significant variance in the Drifted State (ranging from -0.02 to 0.16), the Holographic Restored State consistently converges to the geometric bound of $\approx 0.71$, effectively immunizing the agent against the specific semantic content of the attack.}
+    \label{fig:interface}
+\end{figure}
+
+In all cases, the system restored the safety vector with a fidelity $> 0.70$.
+
+\section{Conclusion}
+
+We have demonstrated that Holographic Invariant Storage provides a robust method for mitigating Context Drift in LLMs. By encoding safety constraints as geometric invariants, the system achieves a mean signal restoration of $\approx 0.71$ against adversarial attacks. This suggests that future AI safety architectures should integrate VSA-based memory kernels to maintain goal coherence indefinitely.
+
+\begin{thebibliography}{9}
+
+\bibitem{kanerva2009}
+Kanerva, P. (2009). 
+``Hyperdimensional Computing: An Introduction to Computing in Distributed Representation with High-Dimensional Random Vectors.'' 
+\textit{Cognitive Computation}, 1(2), 139-159.
+
+\bibitem{vaswani2017}
+Vaswani, A., et al. (2017). 
+``Attention Is All You Need.'' 
+\textit{Advances in Neural Information Processing Systems}, 30.
+
+\bibitem{gayler2003}
+Gayler, R. W. (2003). 
+``Vector Symbolic Architectures Answer Jackendoff's Challenges for Cognitive Neuroscience.'' 
+\textit{ICCS/ASCS International Conference on Cognitive Science}, 133-138.
+
+\bibitem{lecun2022}
+LeCun, Y. (2022). 
+``A Path Towards Autonomous Machine Intelligence.'' 
+\textit{OpenReview}, Version 0.9.2.
+
+\bibitem{liu2023}
+Liu, N. F., et al. (2024). 
+``Lost in the Middle: How Language Models Use Long Contexts.'' 
+\textit{Transactions of the Association for Computational Linguistics}, 12, 157-173.
+
+\end{thebibliography}
+
+\end{document}
